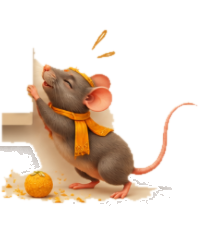
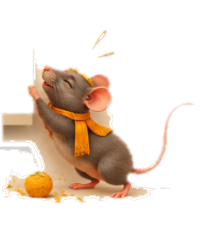
fix(frontend): sync CV-001 print progress and clean rat

diff --git a/mimo-frontend-web-app/mimo-frontend/src/components/screens/PrintingScreen.tsx b/mimo-frontend-web-app/mimo-frontend/src/components/screens/PrintingScreen.tsx
@@ -173,6 +173,10 @@ export const PrintingScreen: React.FC<PrintingScreenProps> = ({
         lastSuccessfulPollTimeRef.current = Date.now();
 
         if (data.status === 'completed' || data.isPrinted === true) {
+          if (isCV001) {
+            progressRef.current = 100;
+            setProgress(100);
+          }
           setPrintDone(true);
           // animateTo100AndComplete will be called via the printDone effect
         } else if (data.status === 'failed') {
@@ -181,20 +185,35 @@ export const PrintingScreen: React.FC<PrintingScreenProps> = ({
           clearAllTimers();
           if (onError) onError(errMsg);
         } else {
+          if (isCV001) {
+            if (data.status === 'printing') {
+              if (progressRef.current < 50) {
+                progressRef.current = 50;
+                setProgress(50);
+              }
+              setStatusMsg('Printing document on printer…');
+            } else if (data.status === 'paid') {
+              if (progressRef.current < 15) {
+                progressRef.current = 15;
+                setProgress(15);
+              }
+              setStatusMsg('Sending document to printer…');
+            }
+          }
           // Still printing — poll again in 1 s for immediate completion sync
           schedulePoll(1000);
         }
       } catch {
-        // Network hiccup — retry in 2 s
-        pollTimerRef.current = window.setTimeout(() => schedulePoll(1000), 2000);
+        // Network hiccup — keep last known progress and retry in 1 s
+        pollTimerRef.current = window.setTimeout(() => schedulePoll(1000), 1000);
       }
     }, delayMs);
-  }, [printCode, isActive, onError, clearAllTimers]);
+  }, [printCode, isActive, onError, clearAllTimers, isCV001]);
 
-  // ─── slow progress simulation ──────────────────────────────────────────────
+  // ─── slow progress simulation (CV-002 / SV-002 only) ──────────────────────
 
   const startSlowTick = useCallback(() => {
-    if (manualProgress !== undefined) return;
+    if (manualProgress !== undefined || isCV001) return;
 
     const totalSheets = Math.max(1, pages * copies);
 
@@ -800,45 +819,45 @@ export const PrintingScreen: React.FC<PrintingScreenProps> = ({
             {/* Keep the CV-001 Ganesha on the page surface with no painted backdrop. */}
             <circle cx="190" cy="190" r="130" fill="transparent" stroke={isCV001 ? "transparent" : "rgba(200,134,10,0.20)"} strokeWidth="2" />
 
-            {/* Ganesha center artwork for CV-001 — perfectly centered, elegant transparent vector line art inside status circle */}
+            {/* Ganesha center artwork for CV-001 — ultra-subtle transparent watermark behind percentage text */}
             {isCV001 && (
-              <g id="cv001-ganesha-center" pointerEvents="none" opacity="0.88" style={{ filter: 'drop-shadow(0 2px 4px rgba(120, 70, 20, 0.15))' }}>
-                <g stroke="#8C5821" fill="none" strokeLinecap="round" strokeLinejoin="round">
+              <g id="cv001-ganesha-center" pointerEvents="none" opacity="0.15" style={{ filter: 'drop-shadow(0 1px 2px rgba(180, 123, 55, 0.08))' }}>
+                <g stroke="#C48B36" fill="none" strokeLinecap="round" strokeLinejoin="round">
                   {/* Mukut (Crown) Peak & Tiers */}
-                  <path d="M190 82 L178 108 Q190 102 202 108 Z" fill="#D4973E" fillOpacity="0.35" strokeWidth="2" />
-                  <path d="M184 94 L190 84 L196 94" strokeWidth="1.8" />
-                  <path d="M168 110 Q190 96 212 110 Q190 122 168 110 Z" fill="#F5D061" fillOpacity="0.2" strokeWidth="2.2" />
-                  <path d="M164 118 Q190 128 216 118" strokeWidth="2.2" />
+                  <path d="M190 82 L178 108 Q190 102 202 108 Z" fill="#F5D061" fillOpacity="0.12" strokeWidth="1.8" />
+                  <path d="M184 94 L190 84 L196 94" strokeWidth="1.5" />
+                  <path d="M168 110 Q190 96 212 110 Q190 122 168 110 Z" fill="#F5D061" fillOpacity="0.08" strokeWidth="1.8" />
+                  <path d="M164 118 Q190 128 216 118" strokeWidth="1.8" />
 
                   {/* Left Ear */}
-                  <path d="M164 119 C136 122 122 150 140 176 C148 187 159 182 168 163 L164 119 Z" fill="#D4973E" fillOpacity="0.15" strokeWidth="2.8" />
+                  <path d="M164 119 C136 122 122 150 140 176 C148 187 159 182 168 163 L164 119 Z" fill="#D4973E" fillOpacity="0.06" strokeWidth="2.2" />
                   {/* Right Ear */}
-                  <path d="M216 119 C244 122 258 150 240 176 C232 187 221 182 212 163 L216 119 Z" fill="#D4973E" fillOpacity="0.15" strokeWidth="2.8" />
+                  <path d="M216 119 C244 122 258 150 240 176 C232 187 221 182 212 163 L216 119 Z" fill="#D4973E" fillOpacity="0.06" strokeWidth="2.2" />
 
                   {/* Eyes & Eyebrows */}
-                  <path d="M152 148 Q163 136 177 144" strokeWidth="2.8" />
-                  <path d="M203 144 Q217 136 228 148" strokeWidth="2.8" />
-                  <path d="M157 156 Q164 161 171 156" strokeWidth="1.6" />
-                  <path d="M209 156 Q216 161 223 156" strokeWidth="1.6" />
+                  <path d="M152 148 Q163 136 177 144" strokeWidth="2.2" />
+                  <path d="M203 144 Q217 136 228 148" strokeWidth="2.2" />
+                  <path d="M157 156 Q164 161 171 156" strokeWidth="1.4" />
+                  <path d="M209 156 Q216 161 223 156" strokeWidth="1.4" />
 
                   {/* Tilak Line & Crescent */}
-                  <path d="M190 117 L190 130" strokeWidth="2.2" stroke="#B83B28" />
-                  <path d="M184 123 Q190 128 196 123" strokeWidth="1.8" stroke="#D4973E" />
+                  <path d="M190 117 L190 130" strokeWidth="1.8" stroke="#D4973E" />
+                  <path d="M184 123 Q190 128 196 123" strokeWidth="1.5" stroke="#D4973E" />
 
                   {/* Trunk (Sond) Graceful Curve */}
-                  <path d="M178 162 C178 183 175 204 185 220 C192 232 208 236 219 225 C225 219 221 210 214 211 C207 212 205 219 211 223" strokeWidth="3.4" />
+                  <path d="M178 162 C178 183 175 204 185 220 C192 232 208 236 219 225 C225 219 221 210 214 211 C207 212 205 219 211 223" strokeWidth="2.6" />
                   
                   {/* Tusk Details */}
-                  <path d="M174 165 L168 168" strokeWidth="2.5" />
-                  <path d="M206 165 L213 169" strokeWidth="2.5" />
+                  <path d="M174 165 L168 168" strokeWidth="2.0" />
+                  <path d="M206 165 L213 169" strokeWidth="2.0" />
 
                   {/* Trunk Wrinkles */}
-                  <path d="M177 178 Q187 184 197 178" strokeWidth="1.6" />
-                  <path d="M178 192 Q187 198 196 192" strokeWidth="1.6" />
-                  <path d="M180 206 Q188 211 196 206" strokeWidth="1.6" />
+                  <path d="M177 178 Q187 184 197 178" strokeWidth="1.4" />
+                  <path d="M178 192 Q187 198 196 192" strokeWidth="1.4" />
+                  <path d="M180 206 Q188 211 196 206" strokeWidth="1.4" />
                 </g>
-                {/* Crimson Bindi/Tilak Spot */}
-                <circle cx="190" cy="123" r="2.8" fill="#B83B28" stroke="none" />
+                {/* Subtle Gold Bindi/Tilak Spot */}
+                <circle cx="190" cy="123" r="2.5" fill="#D4973E" stroke="none" />
               </g>
             )}
 

diff --git a/mimo-frontend-web-app/mimo-frontend/src/components/screens/SummaryScreen.tsx b/mimo-frontend-web-app/mimo-frontend/src/components/screens/SummaryScreen.tsx
@@ -206,30 +206,16 @@ export const SummaryScreen: React.FC<SummaryScreenProps> = ({ isActive, onReset,
                             zIndex: 25,
                             pointerEvents: 'none'
                         }}>
-                            {/* Subtle realistic contact shadow under Mooshak's feet */}
+                            {/* Subtle natural contact shadow where Mooshak's feet meet the surface */}
                             <div style={{
                                 position: 'absolute',
-                                bottom: '8px',
-                                left: '24px',
-                                width: '174px',
-                                height: '20px',
+                                bottom: '4px',
+                                left: '36px',
+                                width: '150px',
+                                height: '10px',
                                 borderRadius: '50%',
-                                background: 'rgba(74, 45, 20, 0.18)',
-                                filter: 'blur(7px)',
-                                pointerEvents: 'none',
-                                zIndex: 0
-                            }} />
-
-                            {/* A second, softer shadow anchors the body against the printer-side surface. */}
-                            <div style={{
-                                position: 'absolute',
-                                bottom: '32px',
-                                left: '-12px',
-                                width: '96px',
-                                height: '58px',
-                                borderRadius: '50%',
-                                background: 'rgba(74, 45, 20, 0.10)',
-                                filter: 'blur(18px)',
+                                background: 'rgba(74, 45, 20, 0.14)',
+                                filter: 'blur(4px)',
                                 pointerEvents: 'none',
                                 zIndex: 0
                             }} />
@@ -243,8 +229,7 @@ export const SummaryScreen: React.FC<SummaryScreenProps> = ({ isActive, onReset,
                                     objectFit: 'contain',
                                     position: 'relative',
                                     zIndex: 1,
-                                    mixBlendMode: 'multiply',
-                                    filter: 'contrast(1.07) saturate(0.9) sepia(0.05) brightness(0.97) drop-shadow(0 8px 12px rgba(74, 45, 20, 0.16))'
+                                    filter: 'none'
                                 }}
                             />
                         </div>
